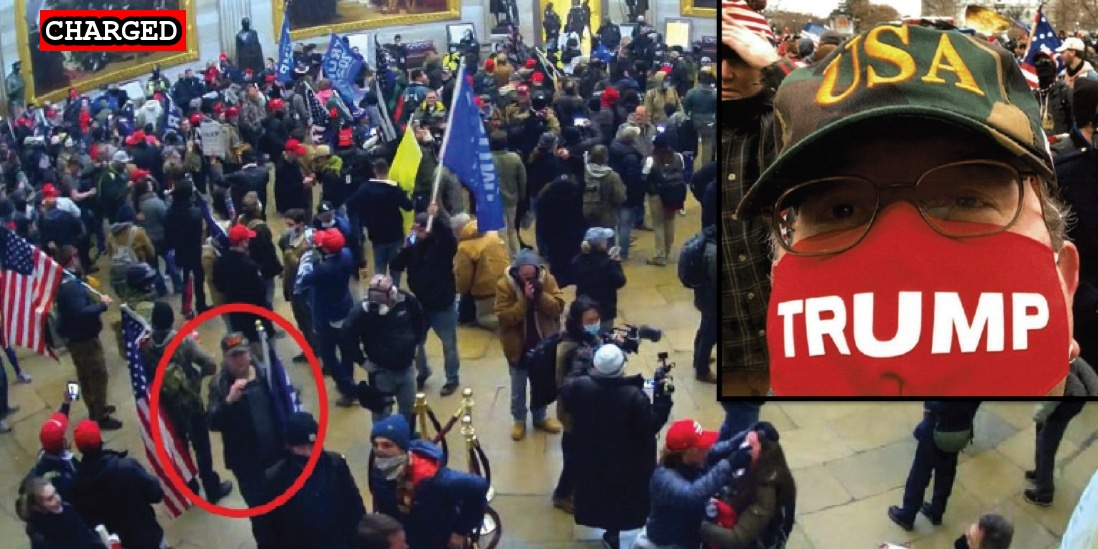
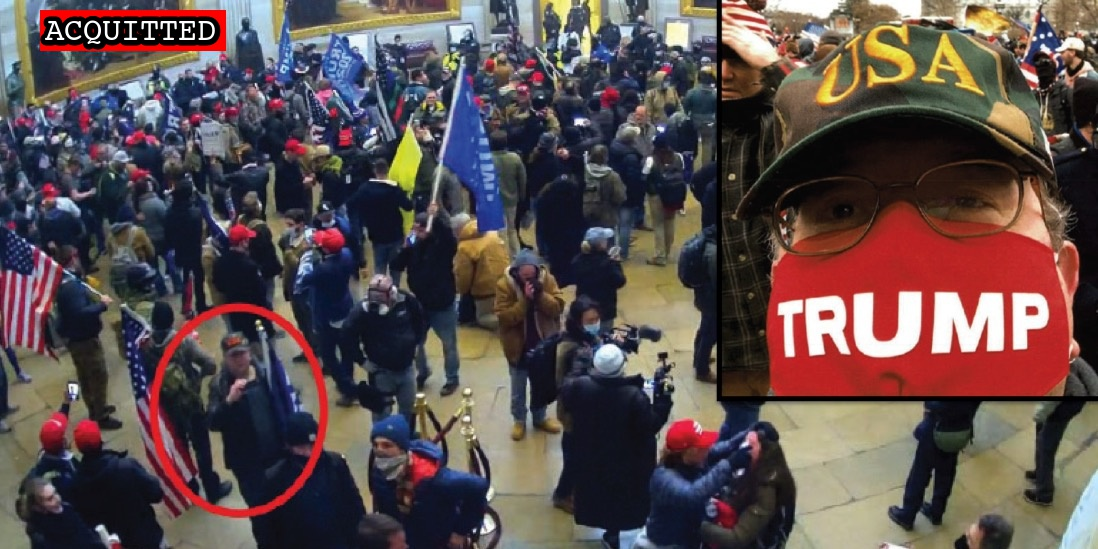
Acquittal

Changed region(s): [[0.031, 0.0, 0.2168, 0.0929]]

diff --git a/commands/suspect-preview.ts b/commands/suspect-preview.ts
@@ -3,60 +3,69 @@ import { info } from "./common/console";
 import fs from "fs";
 import { readFile } from "./common/file";
 
-const { execSync } = require('child_process')
+const { execSync } = require("child_process");
 
 const preview = new Command()
   .option("-f, --file <file>", "cropped file to use for preview")
   .option("-s, --status <status>", "status of suspect", "CHARGED")
-  .option("--delete", "delete existing preview file")
+  .option("--delete", "delete existing preview file");
 
 preview.parse(process.argv);
 
 const generatePreview = (previewImage, status) => {
-  const width = (function(status) {switch (status) {
-    case "CONVICTED":
-      return 223;
-    case "CHARGED":
-      return 185;
-    case "INDICTED":
-      return 205;
-    case "SENTENCED":
-      return 221;
-    default:
-      return 200;
-  }
-  })(status)
+  const width = (function (status) {
+    switch (status) {
+      case "CONVICTED":
+        return 223;
+      case "CHARGED":
+        return 185;
+      case "INDICTED":
+        return 205;
+      case "SENTENCED":
+        return 221;
+      case "ACQUITTED":
+        return 225;
+      default:
+        return 200;
+    }
+  })(status);
 
-  execSync(`convert docs/images/cropped/${previewImage} -strokewidth 3 -fill red -draw "rectangle 40,10 ${width},50" -fill white -strokewidth 3 -fill white -stroke black -strokewidth 10 -pointsize 32 -font Courier-Bold -draw "text 45,40 '${status}'" -stroke none -draw "text 45,40 '${status}'" docs/images/preview/${previewImage}`, {
-    stdio: 'inherit'
-  })
-}
+  execSync(
+    `convert docs/images/cropped/${previewImage} -strokewidth 3 -fill red -draw "rectangle 40,10 ${width},50" -fill white -strokewidth 3 -fill white -stroke black -strokewidth 10 -pointsize 32 -font Courier-Bold -draw "text 45,40 '${status}'" -stroke none -draw "text 45,40 '${status}'" docs/images/preview/${previewImage}`,
+    {
+      stdio: "inherit",
+    },
+  );
+};
 
 const doPreview = () => {
   if (preview.file) {
     if (preview.delete) {
-      info("deleting preview image")
-      console.log(`rm -rf ./docs/images/preview/${preview.file}`)
-      execSync(`rm -rf ./docs/images/preview/${preview.file}`)
-      execSync(`rm -rf ./docs/images/suspect/${preview.file}`)
-      execSync(`rm -rf ./docs/images/cropped/${preview.file}`)
+      info("deleting preview image");
+      console.log(`rm -rf ./docs/images/preview/${preview.file}`);
+      execSync(`rm -rf ./docs/images/preview/${preview.file}`);
+      execSync(`rm -rf ./docs/images/suspect/${preview.file}`);
+      execSync(`rm -rf ./docs/images/cropped/${preview.file}`);
     } else {
-      info("generating preview image")
-      const status = preview.status.toUpperCase() || "CHARGED"
+      info("generating preview image");
+      const status = preview.status.toUpperCase() || "CHARGED";
       generatePreview(preview.file, status);
     }
   } else {
-    const suspects = fs.readdirSync('./docs/_suspects');
+    const suspects = fs.readdirSync("./docs/_suspects");
     info("creating preview images");
 
-      for (const suspect of suspects) {
-      console.log(suspect)
-      const data = readFile(`./docs/_suspects/${suspect}`)
-      const status = data.match(/.*status:(.*)\n/)[1].trim().toUpperCase();
+    for (const suspect of suspects) {
+      console.log(suspect);
+      const data = readFile(`./docs/_suspects/${suspect}`);
+      const status = data
+        .match(/.*status:(.*)\n/)[1]
+        .trim()
+        .toUpperCase();
       const preview = data.match(/.*image:.*\/preview\/(.*\.png|.*\.jpg|.*\.webp)\n/)[1].trim();
-      generatePreview(preview,status)
+      generatePreview(preview, status);
     }
   }
-}
+};
 
 doPreview();

diff --git a/docs/suspects/by_status.html b/docs/suspects/by_status.html
@@ -5,40 +5,18 @@ image: /images/suspects.png
 description: Complete listing of all suspects charged in the Jan. 6, 2021 sedition
 ---
 
-{% assign dismissed = ''|split:''%}
-{% assign sentenced = ''|split:''%}
-{% assign convicted = ''|split:''%}
-{% assign indicted = ''|split:''%}
-{% assign charged = ''|split:''%}
-{% assign deceased = ''|split:''%}
-
-{% for suspect in site.suspects %}
-  {% if suspect.sentenced %}
-    {%assign sentenced = sentenced|push:suspect%}
-  {% endif %}
-  {% if suspect.convicted %}
-    {%assign convicted = convicted|push:suspect%}
-  {% endif %}
-  {% if suspect.dismissed %}
-    {%assign dismissed = dismissed|push:suspect%}
-  {% endif %}
-  {% if suspect.indicted %}
-    {%assign indicted = indicted|push:suspect%}
-  {% endif %}
-  {% if suspect.charged %}
-    {%assign charged = charged|push:suspect%}
-  {% endif %}
-  {% if suspect.deceased %}
-    {%assign deceased = deceased|push:suspect%}
-  {% endif %}
-{% endfor %}
-
-{% assign sentenced = sentenced | sort: "sentenced" | reverse %}
-{% assign dismissed = dismissed | sort: "dismissed" | reverse %}
-{% assign convicted = convicted | sort: "convicted" | reverse %}
-{% assign indicted = indicted | sort: "indicted" | reverse %}
-{% assign charged = charged | sort: "charged" | reverse %}
-{% assign deceased = deceased | sort: "deceased" | reverse %}
+{% assign dismissed = ''|split:''%} {% assign sentenced = ''|split:''%} {% assign convicted = ''|split:''%} {% assign
+acquitted = ''|split:''%} {% assign indicted = ''|split:''%} {% assign charged = ''|split:''%} {% assign deceased =
+''|split:''%} {% for suspect in site.suspects %} {% if suspect.sentenced %} {%assign sentenced =
+sentenced|push:suspect%} {% endif %} {% if suspect.convicted %} {%assign convicted = convicted|push:suspect%} {% endif
+%} {% if suspect.acquitted %} {%assign acquitted = acquitted|push:suspect%} {% endif %} {% if suspect.dismissed %}
+{%assign dismissed = dismissed|push:suspect%} {% endif %} {% if suspect.indicted %} {%assign indicted =
+indicted|push:suspect%} {% endif %} {% if suspect.charged %} {%assign charged = charged|push:suspect%} {% endif %} {% if
+suspect.deceased %} {%assign deceased = deceased|push:suspect%} {% endif %} {% endfor %} {% assign sentenced = sentenced
+| sort: "sentenced" | reverse %} {% assign dismissed = dismissed | sort: "dismissed" | reverse %} {% assign convicted =
+convicted | sort: "convicted" | reverse %} {% assign acquitted = acquitted | sort: "acquitted" | reverse %} {% assign
+indicted = indicted | sort: "indicted" | reverse %} {% assign charged = charged | sort: "charged" | reverse %} {% assign
+deceased = deceased | sort: "deceased" | reverse %}
 
 <h2 class="table">Suspects (Sentenced)</h2>
 Total Count: {{ sentenced.size }}
@@ -72,6 +50,24 @@ Total Count: {{ convicted.size }}
     <td><a href="{{ suspect.url }}">{{ suspect.name }}</a></td>
     <td>{{ suspect.residence }}</td>
     <td>{{ suspect.convicted | date: "%Y-%m-%d" }}</td>
+  </tr>
+  {% endfor %}
+</table>
+
+<h2 class="table">Suspects (Aquitted)</h2>
+Total Count: {{ acquitted.size }}
+
+<table class="suspects">
+  <tr>
+    <th><a href="/suspects/by_name">Name</a></th>
+    <th><a href="/suspects/by_state">Residence</a></th>
+    <th><a href="/suspects">Convicted</a></th>
+  </tr>
+  {% for suspect in acquitted %}
+  <tr>
+    <td><a href="{{ suspect.url }}">{{ suspect.name }}</a></td>
+    <td>{{ suspect.residence }}</td>
+    <td>{{ suspect.acquitted | date: "%Y-%m-%d" }}</td>
   </tr>
   {% endfor %}
 </table>

diff --git a/commands/common/suspect.ts b/commands/common/suspect.ts
@@ -23,6 +23,7 @@ export interface Suspect {
   charged?: string;
   indicted?: string;
   convicted?: string;
+  acquitted?: string;
   dismissed?: string;
   deceased?: string;
   plea_hearing?: string;
@@ -74,6 +75,10 @@ export const getSuspectByFile = (filename: string) => {
 
   if (data.match(/convicted: (.*)/)) {
     suspect.convicted = RegExp.$1.trim();
+  }
+
+  if (data.match(/acquitted: (.*)/)) {
+    suspect.acquitted = RegExp.$1.trim();
   }
 
   if (data.match(/dismissed: (.*)/)) {
@@ -192,6 +197,7 @@ export const updateSuspect = (suspect: Suspect) => {
   lines.push(`charged: ${suspect.charged}`);
   lines.push(`indicted: ${suspect.indicted}`);
   lines.push(`convicted: ${suspect.convicted}`);
+  lines.push(`convicted: ${suspect.acquitted}`);
   lines.push(`sentenced: ${suspect.sentenced}`);
   lines.push(`dismissed: ${suspect.dismissed}`);
   lines.push(`deceased: ${suspect.deceased}`);

diff --git a/docs/_suspects/matthew-martin.md b/docs/_suspects/matthew-martin.md
@@ -8,11 +8,13 @@ status: Charged
 date: 2021-04-22
 charged: 2021-04-22
 indicted:
-convicted: 
-sentenced: 
-dismissed: 
+convicted:
+acquitted: 2022-04-06
+sentenced:
+dismissed:
 deceased:
 plea_hearing:
+trial_date: 2022-04-05
 sentencing:
 age: 42
 occupation: Defense Contractor with Security Clearance
@@ -36,6 +38,7 @@ videos:
 charges:
 sentence:
 ---
+
 - [News Report](https://www.santafenewmexican.com/news/local_news/santa-fe-man-charged-in-capitol-riot/article_a41068ac-a3af-11eb-a485-9bd760829606.html)
 - [Complaint](https://www.justice.gov/usao-dc/case-multi-defendant/file/1388941/download)
 - [Statement of Facts](https://www.justice.gov/usao-dc/case-multi-defendant/file/1388941/download)
